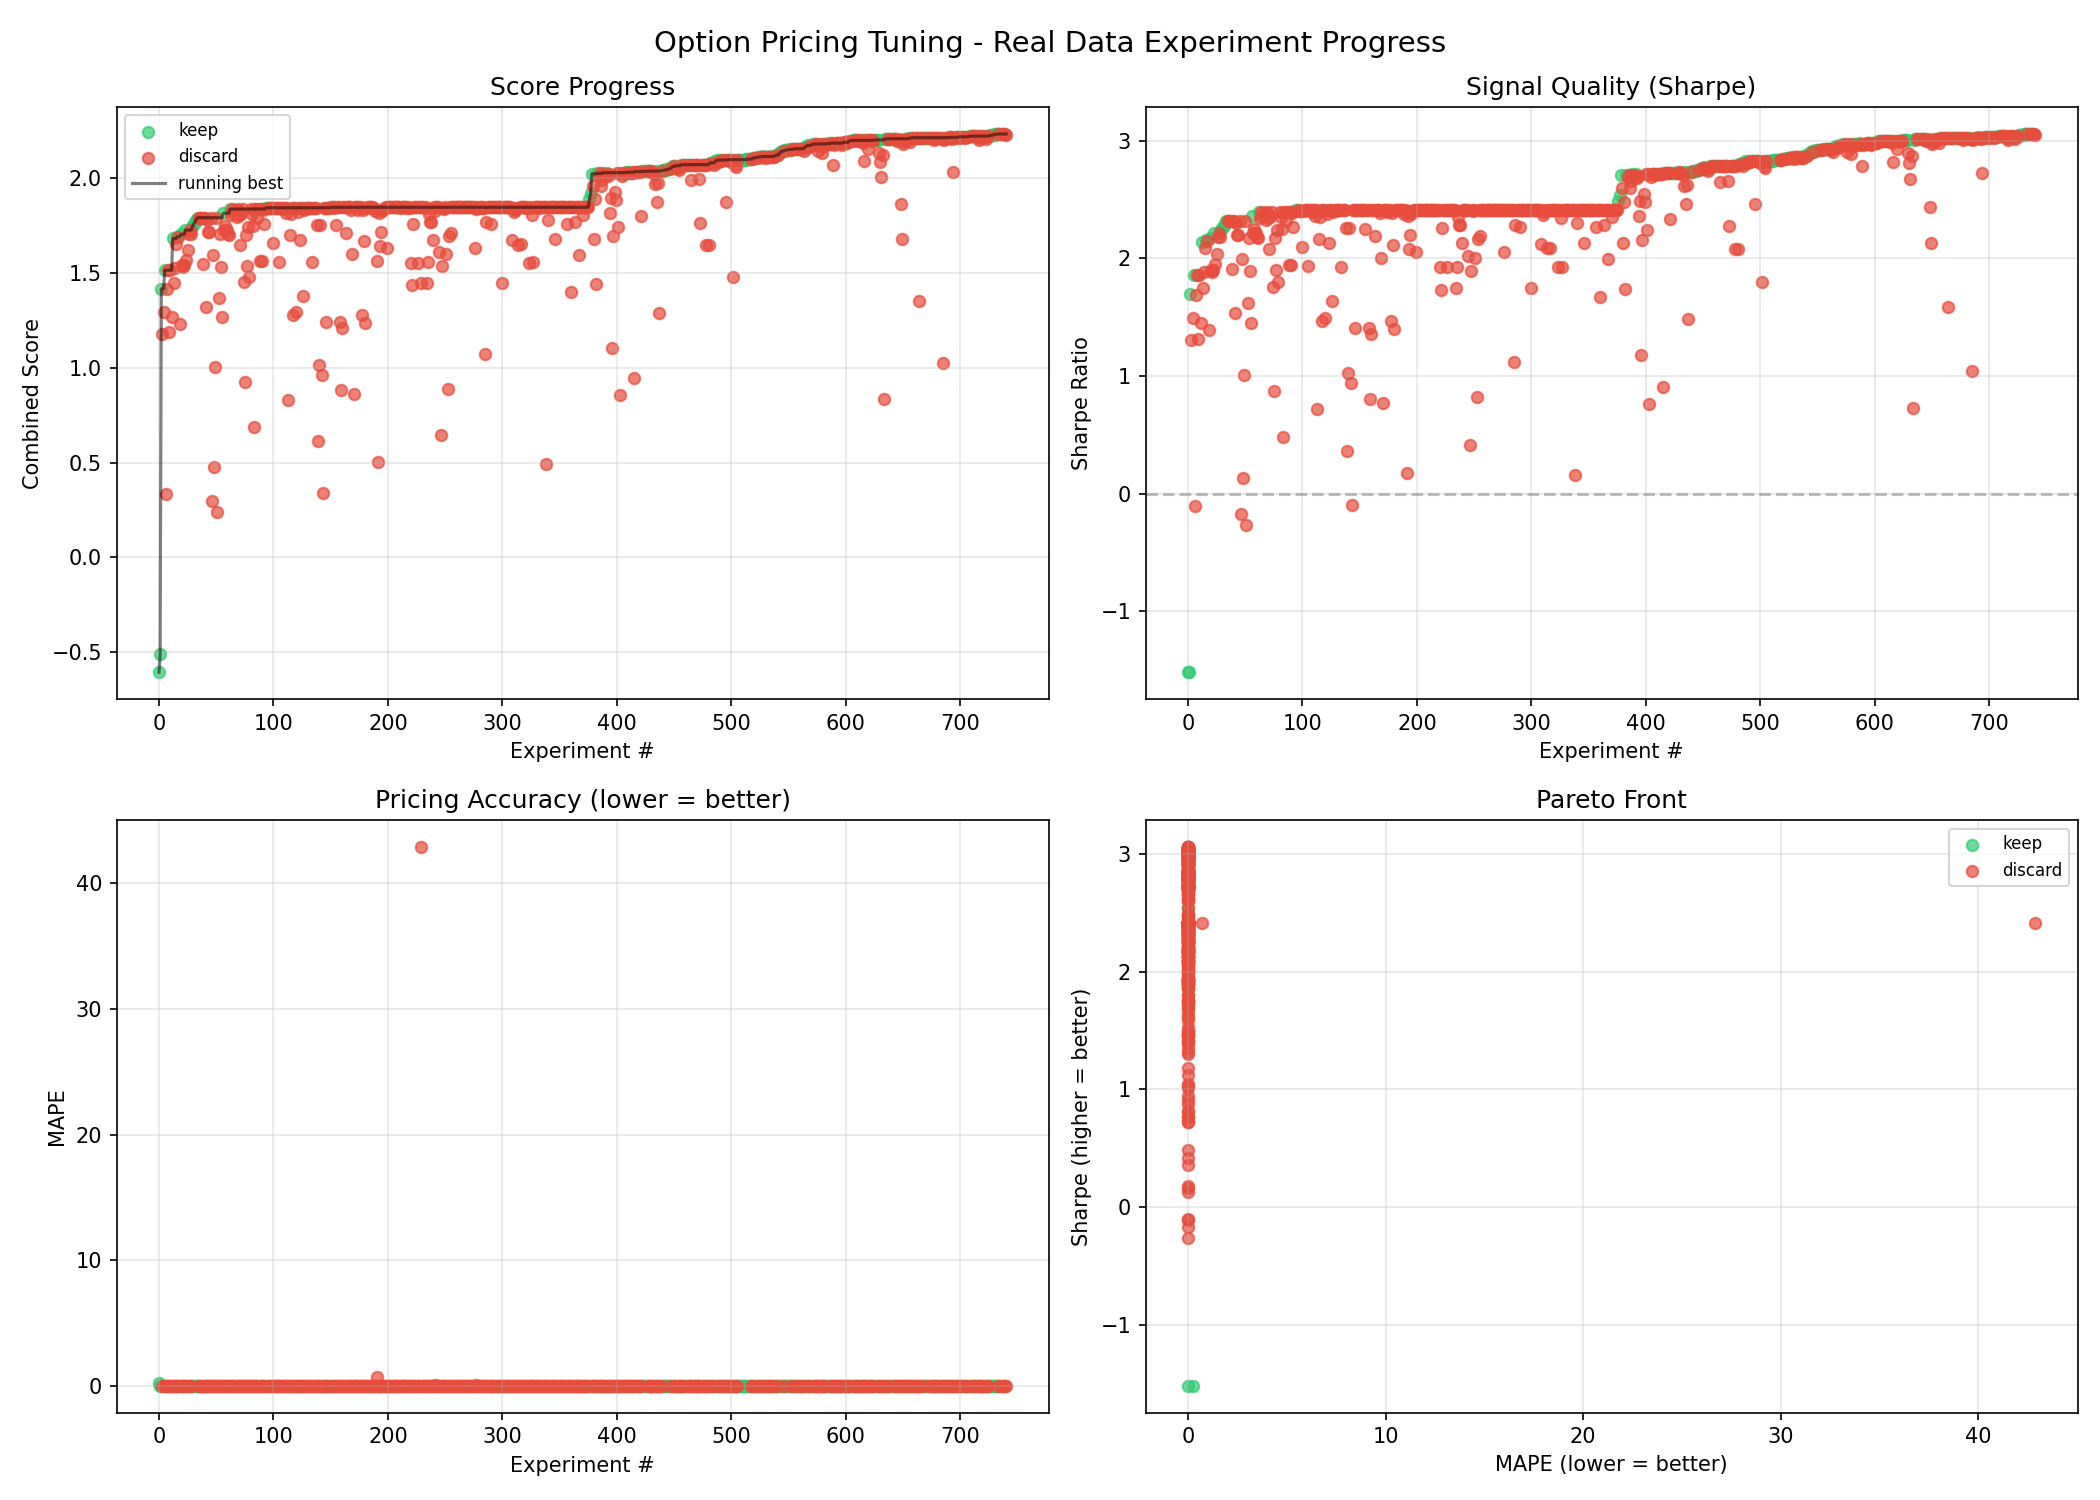
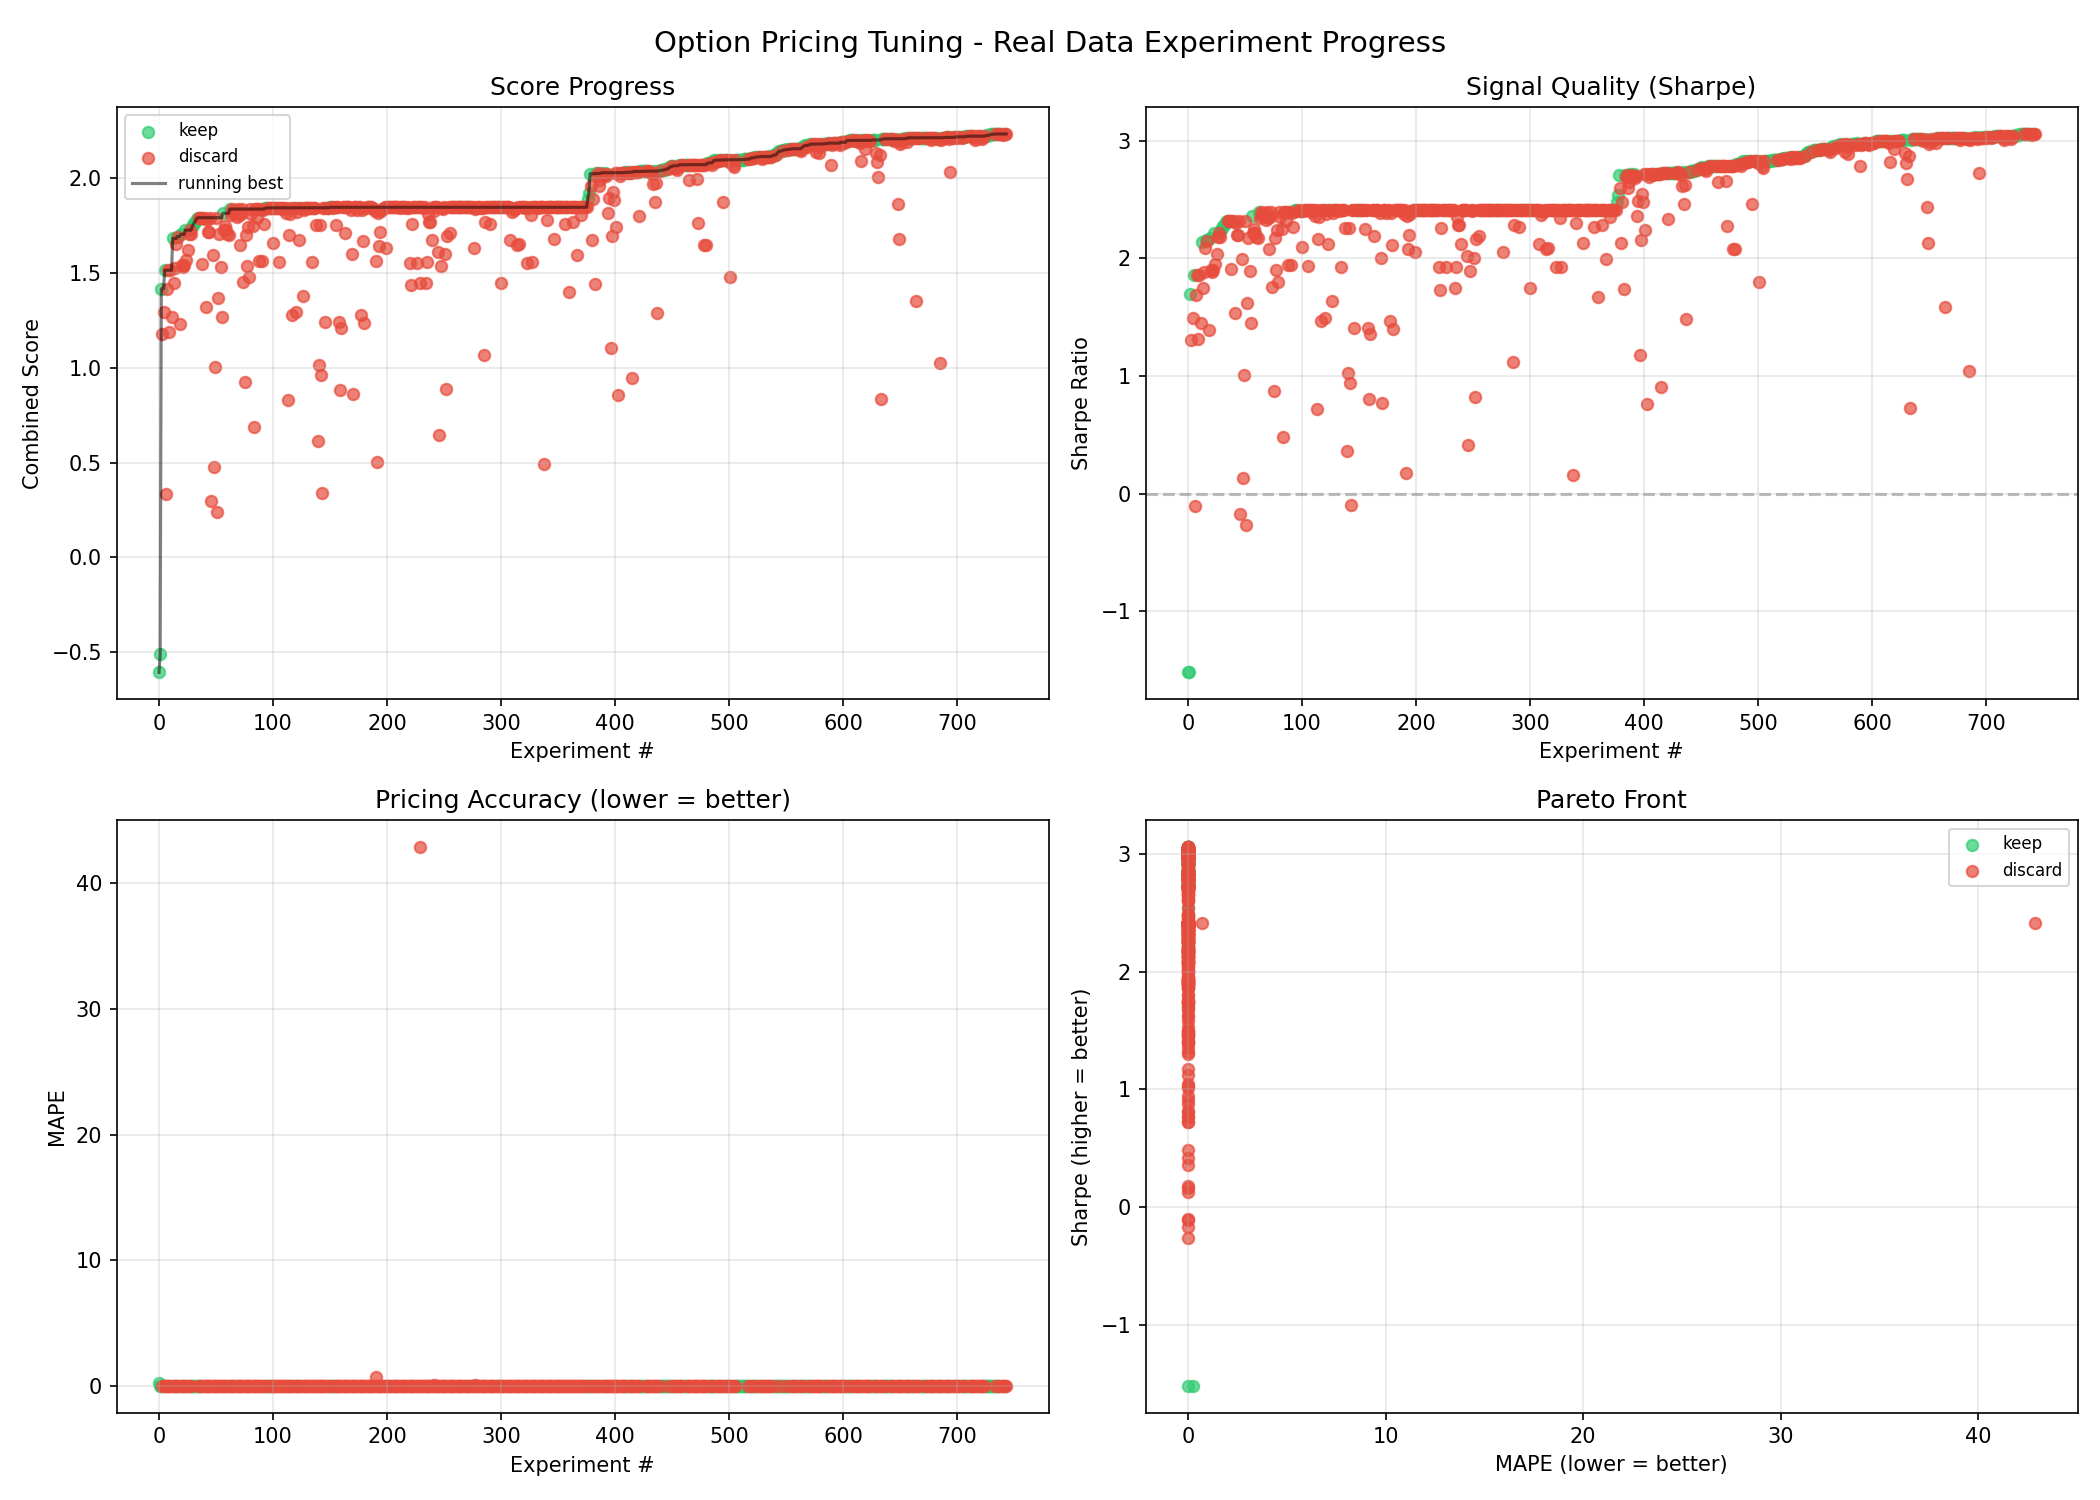
log exp744

diff --git a/README.md b/README.md
@@ -9,12 +9,12 @@ signals using **real stock market data** from Yahoo Finance.
 
 | Metric | Value |
 |---|---|
-| Combined Score | 2.2331 |
-| Sharpe Ratio | 3.0565 |
+| Combined Score | 2.2333 |
+| Sharpe Ratio | 3.0568 |
 | MAPE | 0.002003 |
 | Win Rate | 86.2% |
 | Trades | 29 |
-| Experiments | 741 (175 kept) |
+| Experiments | 744 (176 kept) |
 
 ## How It Works
 
